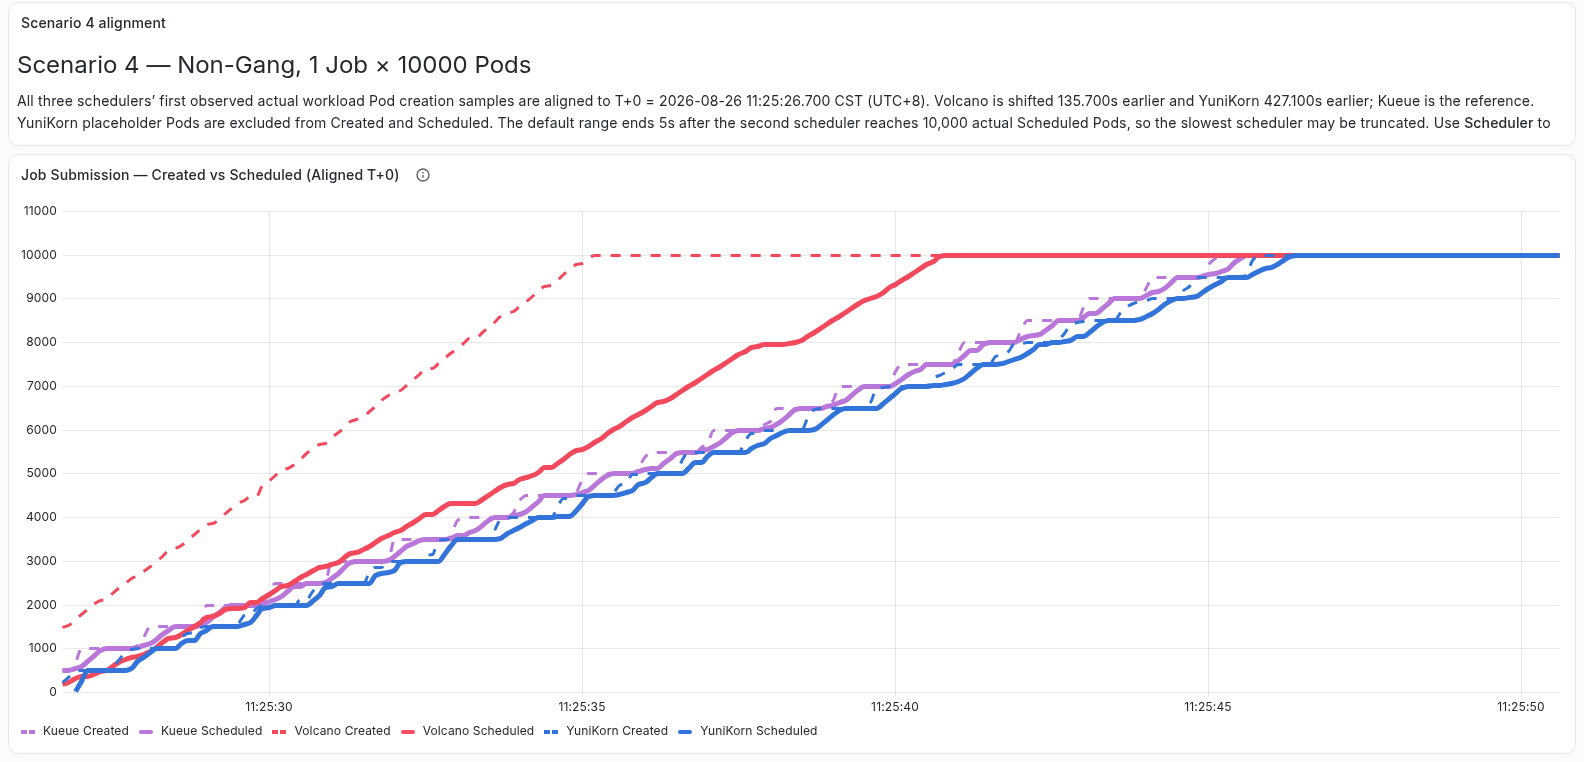
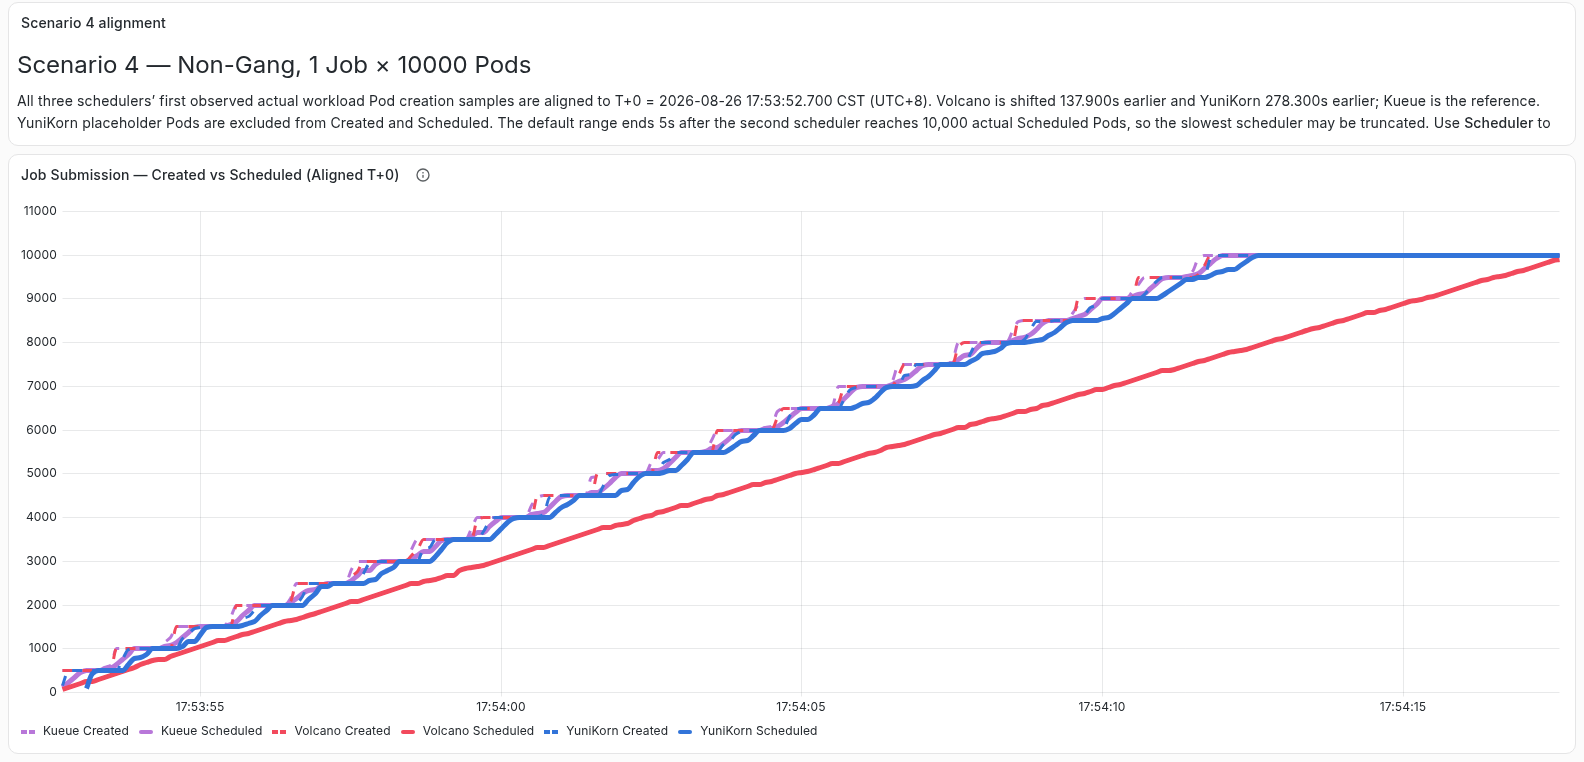
results: scenario test 1-4 082617

diff --git a/scenario_test_report_082617.md b/scenario_test_report_082617.md
@@ -1,0 +1,33 @@
+# 场景测试报告（失败）
+
+## 1. 执行概要
+
+- 测试提交：`0489ce50a8b342a374a73e6f2b9cc72a8c9c9ce0`
+- 请求顺序：场景 1、2、3、4
+- 执行命令：依次执行 `make scenario-1`、`make down`，直至 `make scenario-4`、`make down`
+- tmux 会话：`scenario-test-20260826172837`
+- CST 起止：`2026-08-26 17:28:37` 至 `2026-08-26 18:01:12`
+- 总耗时：`00:32:35.156`
+- 场景/清理退出码：1/0/0，2/0/0，3/0/0，4/0/0（格式为场景/ make / down）
+- 通过 Case：`12/12`（每个场景的 Kueue、Volcano、YuniKorn `TestBatchJob` 均通过）
+- 更新结果场景：`4`；四个场景均缺少 Kueue 结果子目录
+- 最终状态：`失败`
+
+## 2. 场景时间边界与结果目录
+
+| 场景 | 模式与参数 | CST（UTC+8）时间边界 | 耗时 | 指标时间窗（毫秒） | 结果目录 | 结果 |
+|---|---|---|---:|---|---|---|
+| 1 | `VOLCANO_MODE=agent`；`queues=1, jobs/queue=10000, pods/job=1` | `17:28:37`–`17:38:30` | `592.946s` | `1787736517952`–`1787737035525` | `results/scenario-1`（缺 `kueue`） | 失败：结果不完整 |
+| 2 | `VOLCANO_MODE=agent`；`queues=1, jobs/queue=500, pods/job=20` | `17:38:30`–`17:46:02` | `451.991s` | `1787737110913`–`1787737505686` | `results/scenario-2`（缺 `kueue`） | 失败：结果不完整 |
+| 3 | `VOLCANO_MODE=agent`；`queues=1, jobs/queue=20, pods/job=500` | `17:46:02`–`17:53:31` | `449.135s` | `1787737562913`–`1787737954492` | `results/scenario-3`（缺 `kueue`） | 失败：结果不完整 |
+| 4 | `VOLCANO_MODE=agent`；`queues=1, jobs/queue=1, pods/job=10000` | `17:53:31`–`18:01:12` | `460.986s` | `1787738012070`–`1787738415151` | `results/scenario-4`（缺 `kueue`） | 失败：结果不完整 |
+
+## 3. 问题说明
+
+四个场景的三项 `TestBatchJob` 均通过，四次 `make down` 均成功，且每次清理后的 `verify-base.sh 1000` 通过。阻断问题发生在结果保存阶段：`make save-scheduler-result SCHEDULER=kueue` 因 `./tmp/result-kueue-staging` 已存在而失败，随后流程仍继续保存 Volcano/YuniKorn 结果，因此四个 `results/scenario-N/kueue` 目录均缺失。该问题使结果目录不满足测试判定条件。`job-submission.png` 四个场景均存在，不属于非阻断图片异常。未在本流程中修复源代码、清理 staging 或重跑场景。
+
+最终基线核验通过：`verify-base.sh 1000` 与 `verify-schedulers.sh` 均成功；节点为 `1001/1001 Ready`，调度器和 Audit Exporter 恢复到一副本基线。
+
+## 4. 最终结论
+
+`失败`。场景 1–4 均实际执行，12/12 个 `TestBatchJob` Case 通过，四个结果目录有更新，且每个场景后的空闲基线恢复成功；但四个场景均缺少必需的 Kueue 结果子目录，不能判定整体通过。
